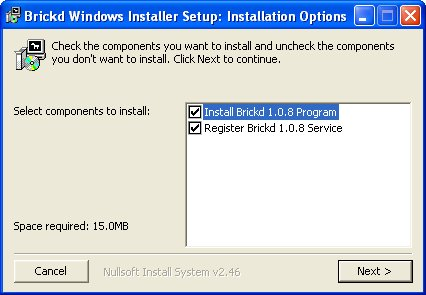
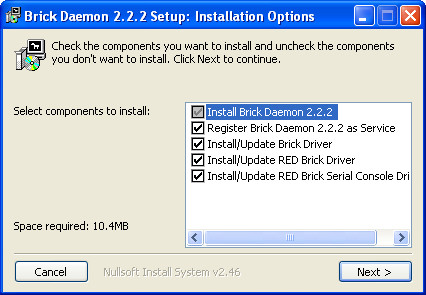
Update brickd/brickv install guide

Changed region(s): [[0.0, 0.0, 1.0, 1.0], [0.061, 0.1831, 0.0915, 0.2441], [0.2441, 0.7627, 0.2746, 0.7932]]

diff --git a/de/source/Software/Brickd_Install_Windows.rst b/de/source/Software/Brickd_Install_Windows.rst
@@ -15,25 +15,38 @@ installiert werden.
 Installer
 ---------
 
-Als erstes muss die Brick Daemon ``.exe`` :ref:`heruntergeladen <downloads_tools>`
-werden. Ein Doppelklick auf die heruntergeladene Datei sollte einen Installer
-starten:
+Als erstes muss die Brick Daemon Installer ``.exe`` :ref:`heruntergeladen
+<downloads_tools>` werden. Ein Doppelklick auf die heruntergeladene Datei
+sollte einen Installer starten:
 
-.. image:: /Images/Screenshots/brickd_windows_1_small.jpg
+.. image:: /Images/Screenshots/brickd_windows_1.jpg
    :scale: 100 %
    :alt: Brickd Installation Schritt 1
    :align: center
    :target: ../_images/Screenshots/brickd_windows_1.jpg
 
-Zwei Aktionen können ausgewählt werden:
+Verschiedene Aktionen können ausgewählt werden:
 
-* **Install Brickd Program** kopiert die Programm-Dateien
-* **Register Brickd Service** installiert den Daemon als Windows Service
+* **Install Brick Daemon** kopiert die Programmdateien.
+* **Register Brick Daemon as Service** installiert den Daemon als automatisch
+  startenden Windows Service. Ohne dies muss der Brick Daemon manuell gestartet
+  werden. Manueller Start ist nur für fortgeschrittene Debugging-Zwecke
+  sinnvoll.
+* **Install/Update Brick Driver** installiert/aktualisiert den USB Treiber für
+  Bricks (nur Windows XP, Vista, 7). Dieser Treiber ist notwendig, um über
+  USB angeschlossene Bricks nutzen zu können.
+* **Install/Update RED Brick Driver** installiert/aktualisiert den USB Treiber
+  für RED Bricks (nur Windows XP, Vista, 7). Dieser Treiber ist notwendig, um
+  über USB angeschlossene RED Bricks nutzen zu können.
+* **Install/Update RED Brick Serial Console Driver** installiert/aktualisiert
+  den Treiber für die serielle Konsole von RED Bricks. Dieser Treiber ist
+  notwendig, um die serielle Konsole von über USB angeschlossenen RED Bricks
+  nutzen zu können.
 
-Typischerweise soll beides ausgeführt werden. Ein Klick auf
+Typischerweise sollen alle Schritte ausgeführt werden. Ein Klick auf
 "Next" startet den Installationsprozess.
 
-.. image:: /Images/Screenshots/brickd_windows_2_small.jpg
+.. image:: /Images/Screenshots/brickd_windows_2.jpg
    :scale: 100 %
    :alt: Brickd Installation Schritt 2
    :align: center
@@ -43,16 +56,20 @@ Als nächstes wird der Installationspfad abgefragt. Dieser kann
 abgeändert werden wenn gewünscht. Die Installation wird mit
 einem Klick auf "Install" gestartet.
 
-Am Ende des Installationsprozess erscheint ein Fenster,
-welches darüber informiert dass der Brick Treiber
-noch installiert werden muss (siehe unten). Nach der
-Installation muss der PC neu gestartet werden.
-
 
 .. _brickd_install_windows_driver:
 
-Treiber Installation (Windows XP, Vista, 7)
--------------------------------------------
+Manuelle Treiber Installation
+-----------------------------
+
+Der Brick Daemon Installer installiert alle nötigen Treiber automatisch, außer
+die entsprechenden Schritte wurden manuell abgewählt. Es kann in seltenen
+Fällen auch vorkommen, dass die automatische Treiberinstallation durch den
+Installer fehlschlägt. In allen diesen Fällen kann es nötig sein den
+entsprechenden Treiber manuelle zu installieren.
+
+Windows XP, Vista, 7
+^^^^^^^^^^^^^^^^^^^^
 
 Abhängig von der Windows Version ist es nötig einen Brick Treiber zu
 installieren. Dieser Treiber muss für jedes Brick einmal installiert
@@ -111,8 +128,8 @@ getestet werden.
  überschrieben werden.
 
 
-Treiber Installation (Windows 8, 8.1 und 10)
---------------------------------------------
+Windows 8, 8.1 und 10
+^^^^^^^^^^^^^^^^^^^^^
 
-Ab Windows 8 wird kein Treiber mehr benötigt, Windows 8 und neuer erkennt die
-Hardware automatisch und korrekt.
+Ab Windows 8 wird kein Treiber für Bricks mehr benötigt, Windows 8 und neuer
+erkennt Bricks automatisch.

diff --git a/en/source/Software/Brickd_Install_Windows.rst b/en/source/Software/Brickd_Install_Windows.rst
@@ -14,10 +14,11 @@ The :ref:`Brick Daemon <brickd>` can be installed from a setup ``.exe`` file.
 Installer
 ---------
 
-First, download the Brick Daemon ``.exe`` form :ref:`here <downloads_tools>`.
-Click on the downloaded file, this should open the installer:
+First, download the Brick Daemon installer ``.exe`` form :ref:`here
+<downloads_tools>`. Click on the downloaded file, this should open the
+installer:
 
-.. image:: /Images/Screenshots/brickd_windows_1_small.jpg
+.. image:: /Images/Screenshots/brickd_windows_1.jpg
    :scale: 100 %
    :alt: Brickd installation step 1
    :align: center
@@ -25,31 +26,45 @@ Click on the downloaded file, this should open the installer:
 
 You can choose the actions of the installer:
 
-* **Install Brickd Program** will copy the program files
-* **Register Brickd Service** will install it as a Windows service
+* **Install Brick Daemon** will copy the program files.
+* **Register Brick Daemon as Service** will install it as a autostarting
+  Windows service. Without this you need to start Brick Daemon manually. Manual
+  start is only useful for advanced debugging purposes.
+* **Install/Update Brick Driver** will install/update the USB driver for
+  Bricks (only Windows XP, Vista, 7). This driver is required if you want to
+  use Bricks connected to USB.
+* **Install/Update RED Brick Driver** will install/update the USB driver
+  for RED Bricks (nur Windows XP, Vista, 7). This driver is required if you
+  want to use RED Bricks connected to USB.
+* **Install/Update RED Brick Serial Console Driver** will install/update
+  the driver for the serial console of RED Bricks. This driver is required if
+  you want to use the serial console of RED Bricks connected to USB.
 
-Typically you want the installer to perform both tasks.
+Typically you want the installer to perform all tasks.
 Click on "Next" to start the installation process.
 
-.. image:: /Images/Screenshots/brickd_windows_2_small.jpg
+.. image:: /Images/Screenshots/brickd_windows_2.jpg
    :scale: 100 %
    :alt: Brickd installation step 2
    :align: center
    :target: ../_images/Screenshots/brickd_windows_2.jpg
 
-Next the installation path will be questioned.
-Change it if necessary and click "Install".
-
-At the end of the installation process a window will come
-up which informs you, that you may have to install the
-Brick drivers manually (see section below). Press "OK"
-and reboot your PC.
+Next the installation path can be configured.
+Change it if necessary and click "Install" to start the installation process.
 
 
 .. _brickd_install_windows_driver:
 
-Driver Installation (Windows XP, Vista, 7)
-------------------------------------------
+Manual Driver Installation
+--------------------------
+
+The Brick Daemon installer automatically installs all necessary drivers, except
+the corresponding step were deselected toring installation. There are rare cases
+in which the automatic driver installation fails. In all this cases it can be
+necessary to manually install the required drivers.
+
+Windows XP, Vista, 7
+^^^^^^^^^^^^^^^^^^^^
 
 Depending on your Windows version it is necessary
 to install a Brick driver. This driver needs to be installed for each of your
@@ -107,8 +122,8 @@ After a successful installation the Brick should use a driver called
  Brick Daemon installation and install the drivers manually.
 
 
-Driver Installation (Windows 8, 8.1 and 10)
--------------------------------------------
+Windows 8, 8.1 and 10
+^^^^^^^^^^^^^^^^^^^^^
 
-Since Windows 8 no driver is needed anymore. Windows 8 and later recognizes
-the hardware automatically and correctly.
+Since Windows 8 no driver for Bricks is needed anymore. Windows 8 and later
+recognizes Bricks automatically.

diff --git a/de/source/Software/Brickv_Install_Windows.rst b/de/source/Software/Brickv_Install_Windows.rst
@@ -15,17 +15,25 @@ installiert werden.
 Installer
 ---------
 
-Als erstes muss die Brick Viewer ``.exe`` :ref:`heruntergeladen <downloads_tools>`
-werden. Ein Doppelklick auf die heruntergeladene Datei sollte einen Installer
-starten:
+Als erstes muss die Brick Viewer Installer ``.exe`` :ref:`heruntergeladen
+<downloads_tools>` werden. Ein Doppelklick auf die heruntergeladene Datei
+sollte einen Installer starten:
 
-.. image:: /Images/Screenshots/brickv_windows_1_small.jpg
+.. image:: /Images/Screenshots/brickv_windows_1.jpg
    :scale: 100 %
    :alt: Brickv Installation Schritt 1
    :align: center
    :target: ../_images/Screenshots/brickv_windows_1.jpg
 
-Ein Klick auf den "Next" Knopf startet den Installationsprozess.
+Verschiedene Aktionen können ausgewählt werden:
+
+* **Install Brick Daemon** kopiert die Programmdateien.
+* **Install/Update Brick Bootloader Driver** installiert/aktualisiert den USB
+  Treiber für Bricks im Bootloader Modus. Dieser Treiber ist notwendig um
+  Brick Firmware Updates in Brick Viewer durchführen zu können.
+
+Typischerweise sollen alle Schritte ausgeführt werden. Ein Klick auf
+"Next" startet den Installationsprozess.
 
 .. image:: /Images/Screenshots/brickv_windows_2_small.jpg
    :scale: 100 %
@@ -33,13 +41,6 @@ Ein Klick auf den "Next" Knopf startet den Installationsprozess.
    :align: center
    :target: ../_images/Screenshots/brickv_windows_2.jpg
 
-Als nächstes kann der Zielordner angegeben werden. Ändere diesen falls nötig
-und klicke "Install".
-
-.. image:: /Images/Screenshots/brickv_windows_3_small.jpg
-   :scale: 100 %
-   :alt: Brickv Installation Schritt 3
-   :align: center
-   :target: ../_images/Screenshots/brickv_windows_3.jpg
-
-Der Installationsprozess ist jetzt abgeschlossen.
+Als nächstes wird der Installationspfad abgefragt. Dieser kann
+abgeändert werden wenn gewünscht. Die Installation wird mit
+einem Klick auf "Install" gestartet.

diff --git a/en/source/Software/Brickv_Install_Windows.rst b/en/source/Software/Brickv_Install_Windows.rst
@@ -14,30 +14,31 @@ The :ref:`Brick Viewer <brickv>` can be installed from a setup ``.exe`` file.
 Installer
 ---------
 
-First, download the Brick Viewer ``.exe`` form :ref:`here <downloads_tools>`.
-Click on the downloaded file, this should open the installer:
+First, download the Brick Viewer installer ``.exe`` form :ref:`here
+<downloads_tools>`. Click on the downloaded file, this should open the
+installer:
 
-.. image:: /Images/Screenshots/brickv_windows_1_small.jpg
+.. image:: /Images/Screenshots/brickv_windows_1.jpg
    :scale: 100 %
    :alt: Brickv installation step 1
    :align: center
    :target: ../_images/Screenshots/brickv_windows_1.jpg
 
+You can choose the actions of the installer:
+
+* **Install Brick Viewer** will copy the program files.
+* **Install/Update Brick Bootloader Driver** will install/update the USB driver
+  for Bricks in bootloader mode. This is driver is necessary to do Brick
+  firmware updates using Brick Viewer.
+
+Typically you want the installer to perform all tasks.
 Click on "Next" to start the installation process.
 
-.. image:: /Images/Screenshots/brickv_windows_2_small.jpg
+.. image:: /Images/Screenshots/brickv_windows_2.jpg
    :scale: 100 %
    :alt: Brickv installation step 2
    :align: center
    :target: ../_images/Screenshots/brickv_windows_2.jpg
 
-Next you will be asked to specify the installation path.
-Change it if necessary and click "Install".
-
-.. image:: /Images/Screenshots/brickv_windows_3_small.jpg
-   :scale: 100 %
-   :alt: Brickv installation step 3
-   :align: center
-   :target: ../_images/Screenshots/brickv_windows_3.jpg
-
-After this you have finished the installation process.
+Next the installation path can be configured.
+Change it if necessary and click "Install" to start the installation process.
